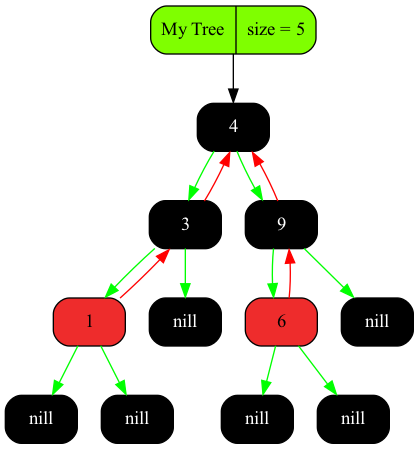
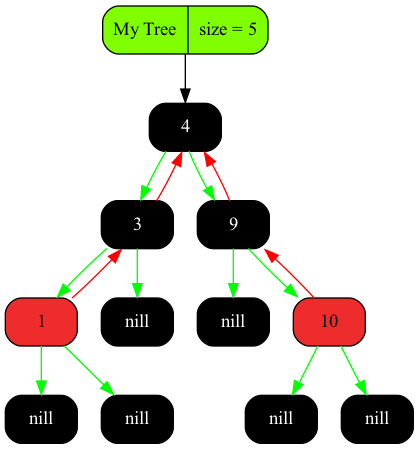
Some fixes

diff --git a/inc/rbtree.hpp b/inc/rbtree.hpp
@@ -331,94 +331,94 @@ void RBTree<KeyT>::InsertFixUp(Node<KeyT>* node)
 template<typename KeyT>
 void RBTree<KeyT>::DeleteNode(Node<KeyT>*node)
 {
-	Node<KeyT> *child = nullptr, *parent = nullptr;
+    Node<KeyT> *child = nullptr, *parent = nullptr;
 
-    Color color = Black;
-	
-	if (node->left_ && node->right_)     
-	{	
-		Node<KeyT> *replace = TreeMinimum(node->right_);
+    Color orig_color = Black;
 
-		if (node->parent_)
-		{
-			if (node->parent_->left_ == node)
-				node->parent_->left_ = replace;
+    if (node->left_ && node->right_)    
+	{
+        Node<KeyT>* replace_node = TreeMinimum(node->right_);
 
-			else
-				node->parent_->right_ = replace;
-		}
+        if (node->parent_)
+        {
+            if (node->parent_->left_ == node)
+                node->parent_->left_ = replace_node;
 
-		else
-			root_ = replace;
+            else
+                node->parent_->right_  = replace_node;
+        }
 
-		child  = replace->right_;
-
-		parent = replace->parent_;
-
-		color  = replace->color_;
-		
-		if (parent == node)
-			parent = replace;
-		
         else
-		{
-			if (child)
-				child->parent_ = parent;
-			
+            root_ = replace_node;
+
+        child       = replace_node->right_;
+
+        parent      = replace_node->parent_;
+
+        orig_color  = replace_node->color_;
+
+        if (parent == node)
+            parent = replace_node;
+
+        else
+        {
+            if (child)
+                child->parent_ = parent;
+
             parent->left_         = child;
 
-			replace->right_       = node->right_;
-			
-            node->right_->parent_ = replace;
-		}
-		
-        replace->parent_     = node->parent_;
-		
-        replace->color_      = node->color_;
-		
-        replace->left_       = node->left_;
-		
-        node->left_->parent_ = replace;
-		
-        if (color == Black)
-			DeleteFixUp(child, parent);
+            replace_node->right_  = node->right_;
 
-		delete node;
+            node->right_->parent_ = replace_node;
+        }
+
+        replace_node->parent_   = node->parent_;
+
+        replace_node->color_    = node->color_;
+
+        replace_node->left_     = node->left_;
+
+        node->left_->parent_    = replace_node;
+
+        if (orig_color == Black)
+            DeleteFixUp(child, parent);
+
+        delete node;
 
         size_--;
-		
+
         return;
-	}
+    }
 
-	if (node->left_)    
-		child = node->left_;
-	
+    if (node->left_)
+        child = node->left_;
+    
     else
-		child = node->right_;
+        child = node->right_;
 
-	parent = node->parent_;
-	
-    color = node->color_;
-	
-    if (child) 
-		child->parent_ = parent;
+    parent = node->parent_;
 
-	if (parent)     
-	{
-		if (node == parent->left_)
-			parent->left_  = child;
+    orig_color = node->color_;
 
-		else if (node == parent->right_)
-			parent->right_ = child;
-	}
+    if (child)
+        child->parent_ = parent;
 
-	else
-		root_ = child;		
+    if (parent)
+    {
+        if (node == parent->left_)
+            parent->left_  = child;
 
-	if (color == Black)
-		DeleteFixUp(child, parent);
+        else if (node == parent->right_)
+            parent->right_ = child;
+    }
 
-	delete node;
+    else
+        root_ = child;
+
+    if (orig_color == Black)
+        DeleteFixUp(child, parent);
+
+    delete node;
 
     size_--;
 }
@@ -428,116 +428,116 @@ void RBTree<KeyT>::DeleteNode(Node<KeyT>*node)
 template<typename KeyT>
 void RBTree<KeyT>::DeleteFixUp(Node<KeyT>* node, Node<KeyT>* parent)
 {
-	Node<KeyT>* brother = nullptr;
+    Node<KeyT>* brother = nullptr;
 
-	while ((!node) || node->color_ == Black && node != root_)
-	{
-		if (parent->left_ == node)
-		{
-			brother = parent->right_;
+    while ((!node) || node->color_ == Black && node != root_)
+    {
+        if (parent->left_ == node)
+        {
+            brother = parent->right_;
 
-			if (brother->color_ == Red)
-			{
-				brother->color_ = Black;
+            if (brother->color_ == Red)
+            {
+                brother->color_ = Black;
 
-				parent->color_ = Red;
-				
+                parent->color_ = Red;
+
                 LeftRotate(parent);
-				
+
                 brother = parent->right_;
-			}
+            }
 
             if ((brother->left_ == nullptr || brother->left_->color_ == Black) && (brother->right_ == nullptr || brother->right_->color_ == Black))
-			{
-				brother->color_ = Red;
+            {
+                brother->color_ = Red;
 
-				node = parent;
-				
-                parent = node->parent_;
-			}
+                node    = parent;
 
-			else
-			{
-				if (brother->right_ == nullptr || brother->right_->color_ == Black)
-				{
-					brother->left_->color_ = Black;
-					
+                parent  = node->parent_;
+            }
+
+            else
+            {
+                if (brother->right_ == nullptr || brother->right_->color_ == Black)
+                {
+                    brother->left_->color_ = Black;
+
                     brother->color_        = Red;
 
-					RightRotate(brother);
-					
+                    RightRotate(brother);
+
                     brother = parent->right_;
-				}
+                }
 
-				brother->color_         = parent->color_;
-				
+                brother->color_         = parent->color_;
+
                 parent->color_          = Black;
-				
+
                 brother->right_->color_ = Black;
-				
+
                 LeftRotate(parent);
-				
+
                 node = root_;
-				
+
                 break;
-			}
-		}
-		else
-		{
-			brother = parent->left_;
-			
+            }
+        }
+
+        else
+        {
+            brother = parent->left_;
+
             if (brother->color_ == Red)
-			{
-				brother->color_ = Black;
-				
-                parent->color_  = Red;
-				
+            {
+                brother->color_ = Black;
+
+                parent->color_  = Black;
+
                 RightRotate(parent);
-				
+
                 brother = parent->left_;
-			}
+            }
 
-			if ((brother->left_ == nullptr || brother->left_->color_ == Black) && (brother->right_ == nullptr || brother->right_->color_ == Black))
-			{
-				brother->color_ = Red;
+            if ((brother->left_ == nullptr || brother->left_->color_ == Black) && (brother->right_ == nullptr || brother->right_->color_ == Black))
+            {
+                brother->color_ = Red;
 
-				node = parent;
-				
-                parent = node->parent_;
-			}
+                node    = parent;
 
-			else
-			{
-				if (brother->left_ == nullptr || brother->left_->color_ == Black)
-				{
-					brother->right_->color_ = Black;
-					
-                    brother->color_         = Red;
-					
+                parent  = node->parent_;
+            }
+
+            else
+            {
+                if (brother->left_ == nullptr || brother->left_->color_ == Black)
+                {
+                    brother->right_->color_ = Black;
+
+                    brother->color_ = Red;
+
                     LeftRotate(brother);
-					
+
                     brother = parent->left_;
-				}
+                }
 
-				brother->color_         = parent->color_;
-				
-                parent->color_          = Black;
-				
-                brother->left_->color_  = Black;
-				
+                brother->color_ = parent->color_;
+
+                parent->color_ = Black;
+
+                brother->left_->color_ = Black;
+
                 RightRotate(parent);
-				
+
                 node = root_;
-				
+
                 break;
-			}
-		}
-	}
+            }
+        }
+    }
 
-	if (node)
-		node->color_ = Black;
+    if (node)
+        node->color_ = Black;
 }
-
 //-------------------------------------------------------------------------------//
 
 template<typename KeyT>

diff --git a/src/main.cpp b/src/main.cpp
@@ -47,6 +47,10 @@ int main(int argc, char** argv)
 
     TreeDump(&tree);
 
+    tree.DeleteKey(6);
+
+    TreeDump(&tree);
+
     tree.DeleteKey(10);
 
     TreeDump(&tree);
